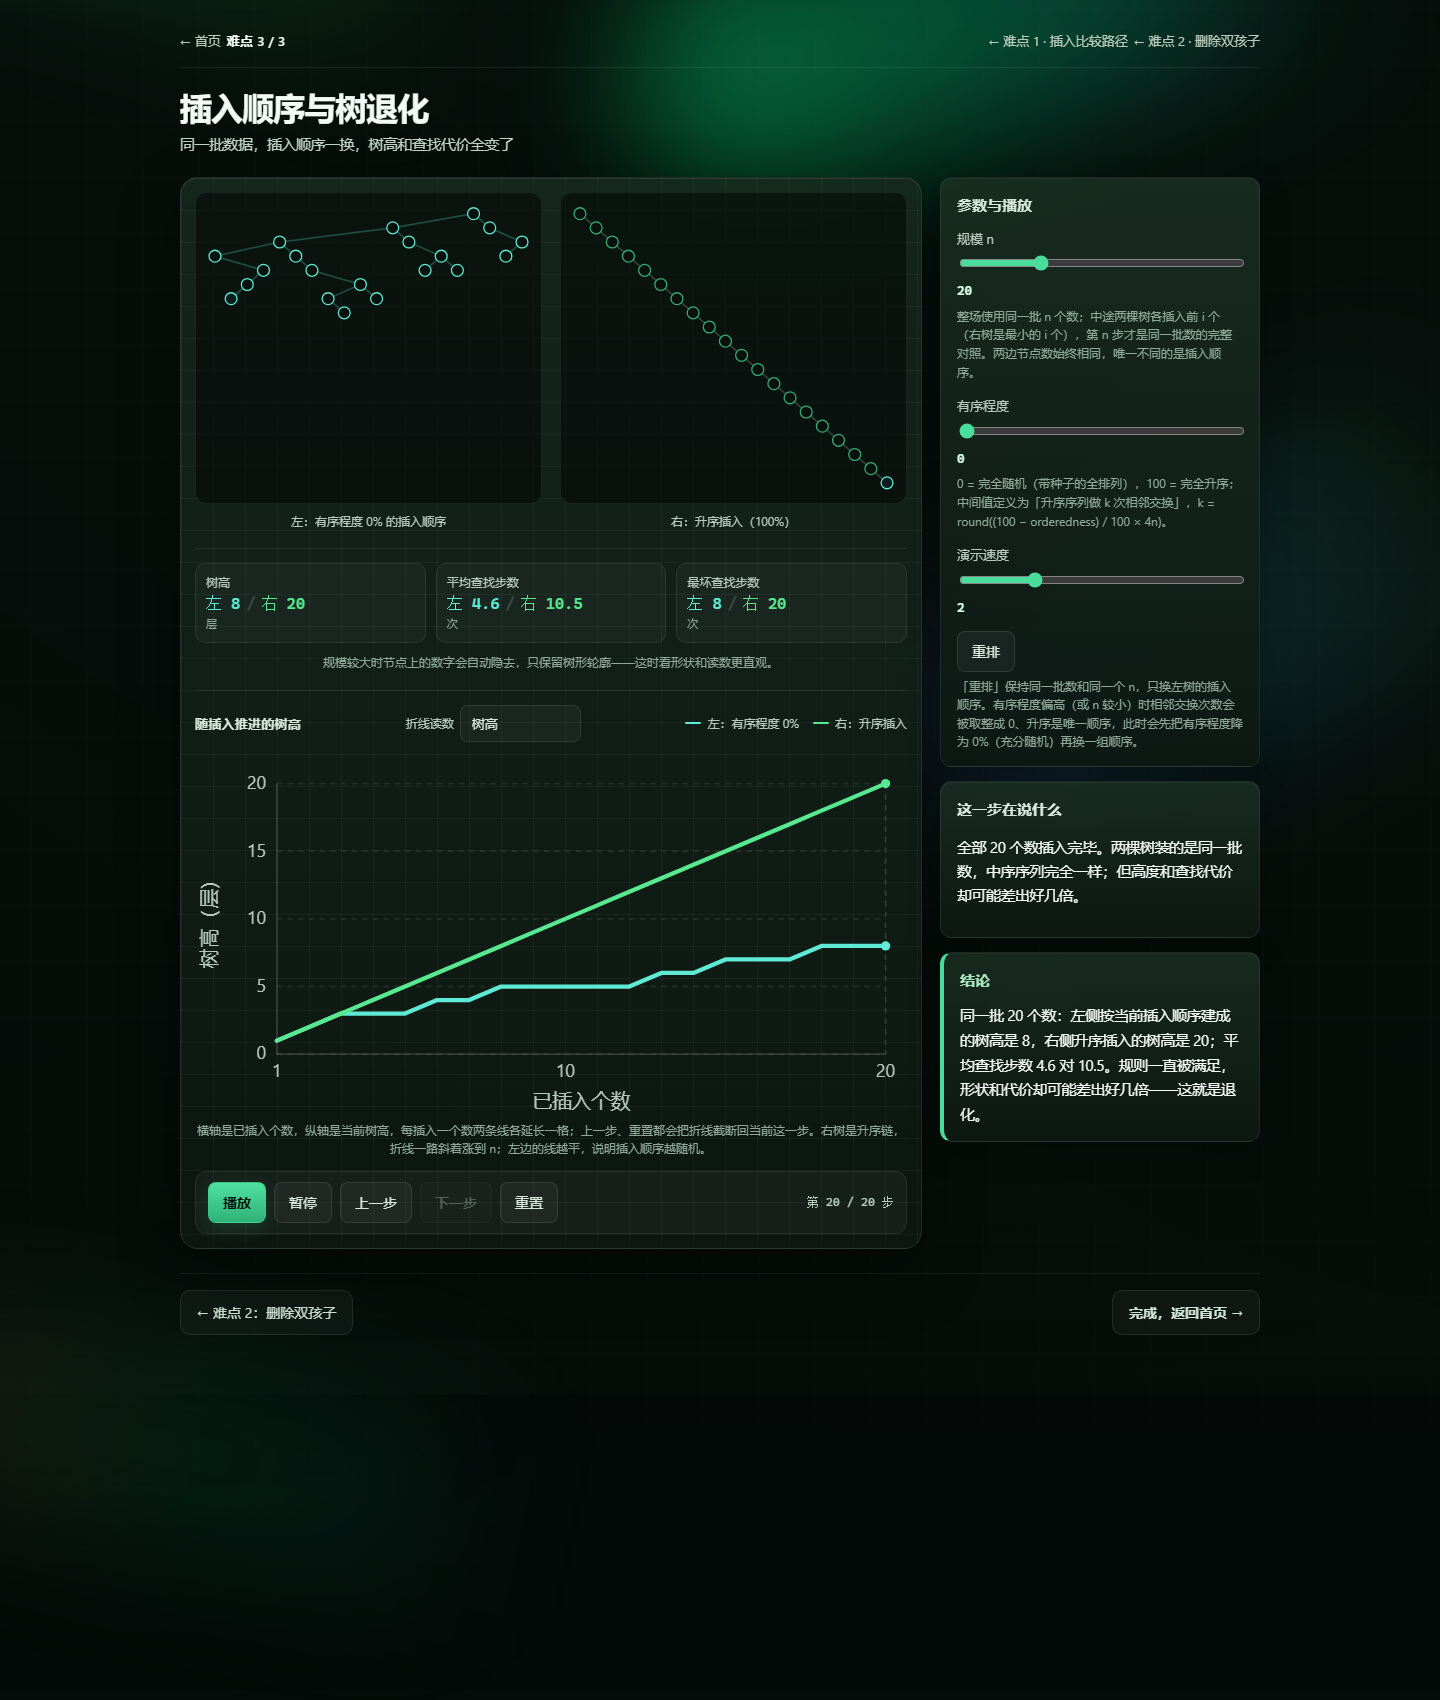
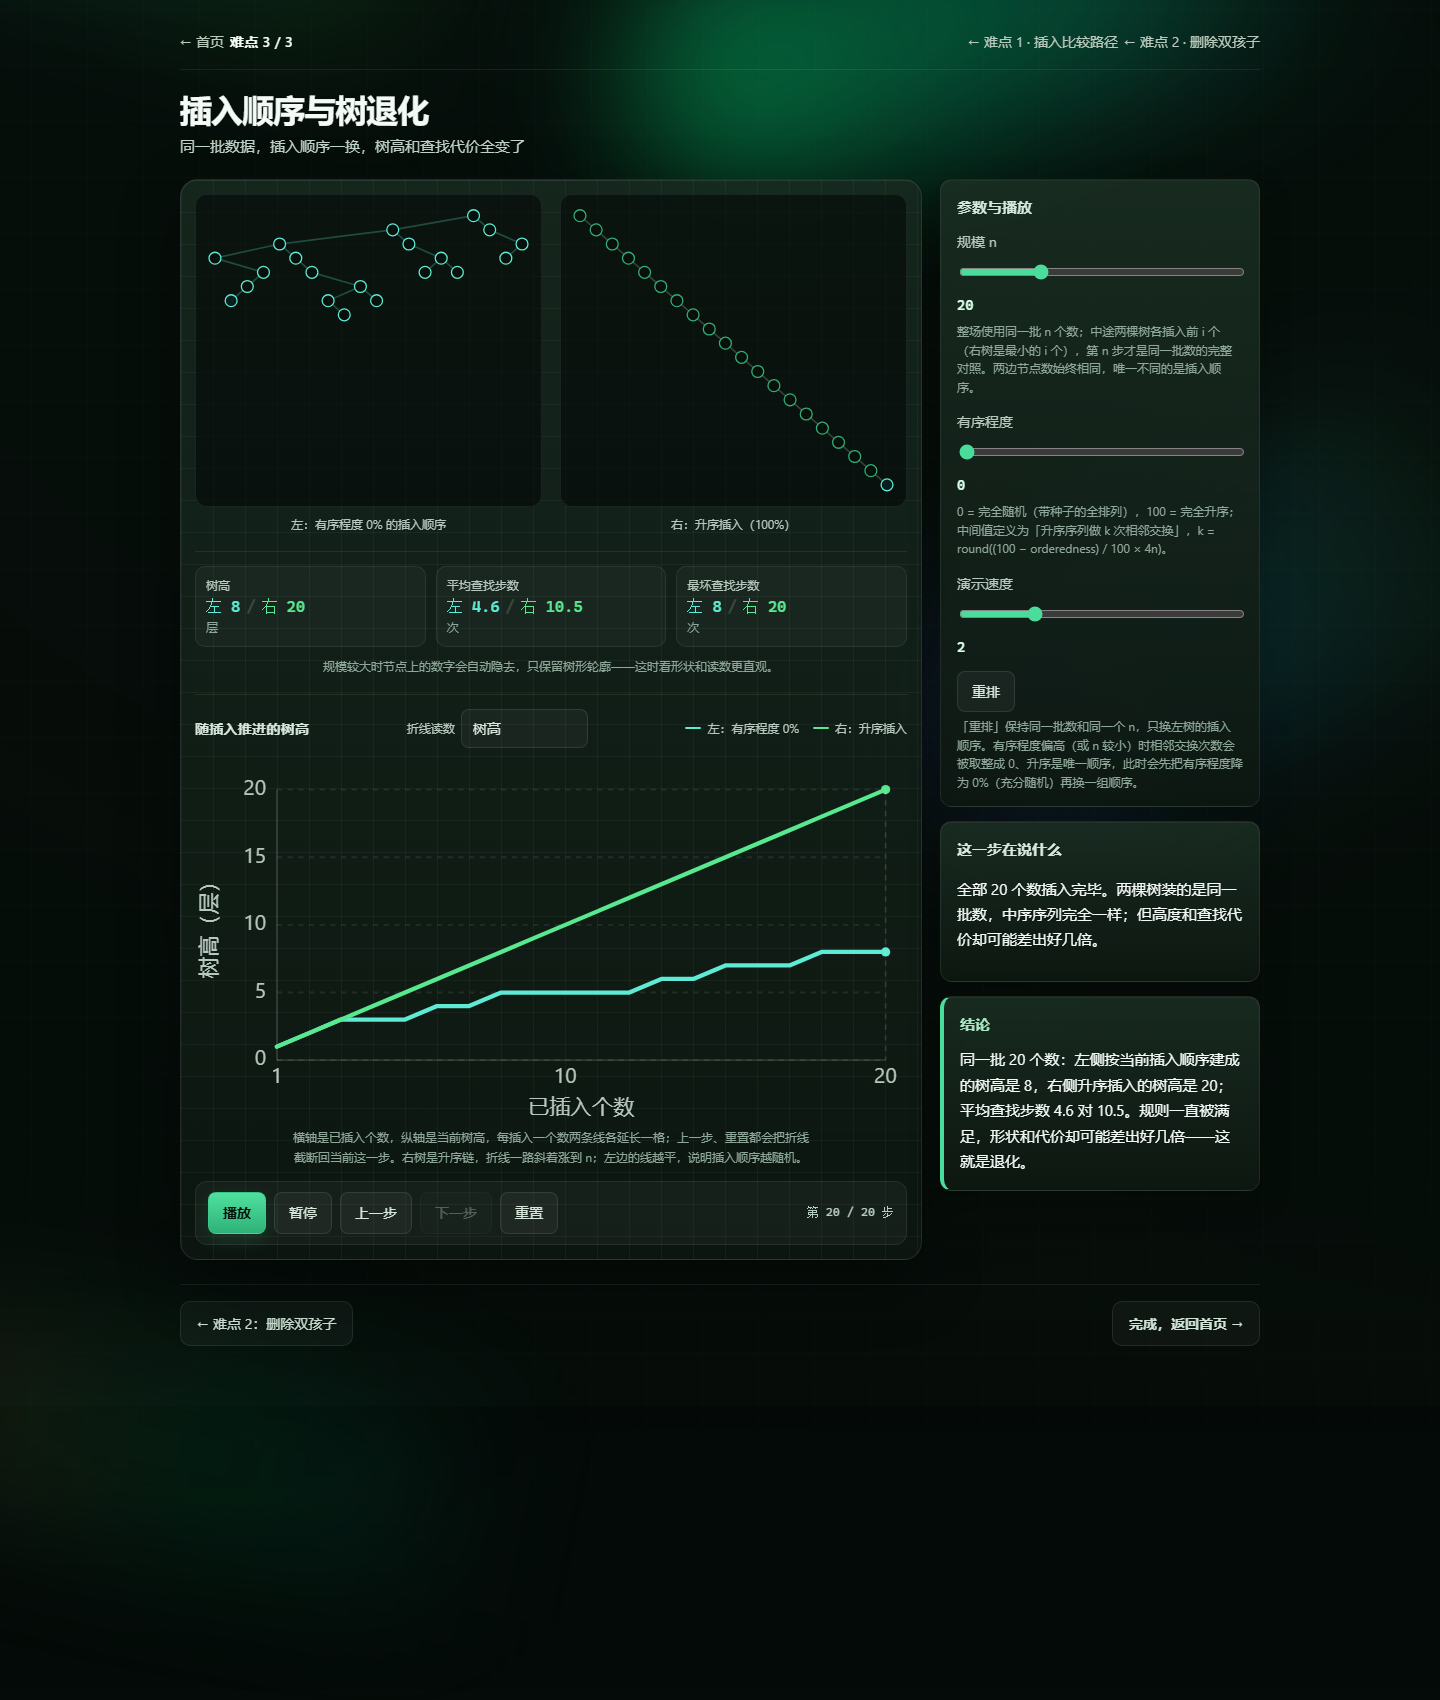
fix(matrix): 收敛字号层级、修复点击区域并加入页面转场

diff --git a/matrix/matrix.css b/matrix/matrix.css
@@ -642,3 +642,107 @@ body.matrix ::-webkit-scrollbar-thumb:hover { background: #2f5a42; }
 
 
 
+
+/* ============================================================
+   设计检查修复：字号收敛 / 点击区域 / 转场动画
+   ============================================================ */
+
+/* 统一字号层级：12 / 14 / 15 / 16 / 32 */
+body.matrix { font-size: 15px; }
+body.matrix .topbar,
+body.matrix .topbar a,
+body.matrix .crumb { font-size: 14px; }
+body.matrix .subtitle { font-size: 15px; }
+body.matrix .param label { font-size: 14px; }
+body.matrix button { font-size: 14px; }
+body.matrix .step-list li,
+body.matrix .steps li,
+body.matrix #panel-steps li { font-size: 14px; }
+body.matrix .card h2 { font-size: 15px; }
+body.matrix .cards + .card h2 { font-size: 16px; }
+body.matrix .metric-label,
+body.matrix .caption,
+body.matrix #chart-note,
+body.matrix .metric-unit { font-size: 12px; }
+body.matrix .chart-title { font-size: 14px; }
+body.matrix #chart text { font-size: 12px; }
+body.matrix .metric-value,
+body.matrix .mv { font-size: 16px; }
+
+/* 折线说明限制每行字符数（≤45） */
+body.matrix #chart-note {
+  max-width: 520px;
+  margin-left: auto;
+  margin-right: auto;
+  line-height: 1.7;
+}
+
+/* 滑块的点击 / 触摸高度不小于 24px */
+body.matrix input[type="range"] {
+  height: 26px;
+  min-height: 26px;
+  cursor: pointer;
+}
+
+/* —— 页面转场 —— */
+@view-transition { navigation: auto; }
+
+@keyframes vt-out {
+  to { opacity: 0; transform: translateY(-6px) scale(0.996); }
+}
+@keyframes vt-in {
+  from { opacity: 0; transform: translateY(10px) scale(1.004); }
+}
+::view-transition-old(root) {
+  animation: vt-out 200ms cubic-bezier(0.4, 0, 1, 1) both;
+}
+::view-transition-new(root) {
+  animation: vt-in 320ms cubic-bezier(0.2, 0.7, 0.2, 1) both;
+}
+
+@keyframes page-enter {
+  from { opacity: 0; transform: translateY(10px); }
+  to { opacity: 1; transform: translateY(0); }
+}
+body.matrix .wrap {
+  animation: page-enter 480ms cubic-bezier(0.2, 0.7, 0.2, 1) both;
+}
+
+@keyframes card-rise {
+  from { opacity: 0; transform: translateY(14px); }
+  to { opacity: 1; transform: translateY(0); }
+}
+body.matrix .cards > *,
+body.matrix .layout > * {
+  animation: card-rise 520ms cubic-bezier(0.2, 0.7, 0.2, 1) both;
+}
+body.matrix .cards > *:nth-child(2),
+body.matrix .layout > *:nth-child(2) { animation-delay: 70ms; }
+body.matrix .cards > *:nth-child(3) { animation-delay: 140ms; }
+
+@keyframes step-in {
+  from { opacity: 0; transform: translateY(6px); }
+  to { opacity: 1; transform: translateY(0); }
+}
+body.matrix .is-updating { animation: step-in 300ms ease both; }
+
+@media (prefers-reduced-motion: reduce) {
+  body.matrix .wrap,
+  body.matrix .cards > *,
+  body.matrix .layout > *,
+  body.matrix .is-updating { animation: none !important; }
+  ::view-transition-old(root),
+  ::view-transition-new(root) { animation: none !important; }
+}
+
+/* 消除剩余 13px / 10.5px / 11px 字号，收敛为 12 / 14 / 15 / 16 / 32 */
+body.matrix .readout,
+body.matrix .check-line,
+body.matrix .candidates-line,
+body.matrix .step-title,
+body.matrix select,
+body.matrix select option { font-size: 14px; }
+body.matrix .node-interval,
+body.matrix .node-tag { font-size: 12px; }
+
+body.matrix .param .readout { font-size: 14px; }

diff --git a/matrix/transition.js b/matrix/transition.js
@@ -1,0 +1,22 @@
+/* matrix/transition.js —— 步骤文字 / 状态变化的轻量转场（不改变任何业务逻辑） */
+(function () {
+  var targets = document.querySelectorAll("#panel-step, #panel-conclusion, #status");
+  for (var i = 0; i < targets.length; i++) {
+    (function (el) {
+      var scheduled = false;
+      var observer = new MutationObserver(function () {
+        if (scheduled) {
+          return;
+        }
+        scheduled = true;
+        requestAnimationFrame(function () {
+          scheduled = false;
+          el.classList.remove("is-updating");
+          void el.offsetWidth;
+          el.classList.add("is-updating");
+        });
+      });
+      observer.observe(el, { childList: true, subtree: true, characterData: true });
+    })(targets[i]);
+  }
+})();

diff --git a/matrix/d2.html b/matrix/d2.html
@@ -210,7 +210,9 @@
       window.D2.mount();
     });
   </script>
+  <script src="transition.js"></script>
 </body>
 </html>
+
 
 

diff --git a/matrix/d3.html b/matrix/d3.html
@@ -353,8 +353,10 @@
       D3.mount();
     });
   </script>
+  <script src="transition.js"></script>
 </body>
 </html>
+
 
 
 

diff --git a/matrix/d1.html b/matrix/d1.html
@@ -81,7 +81,9 @@
       D1.mount();
     });
   </script>
+  <script src="transition.js"></script>
 </body>
 </html>
+
 
 

diff --git a/matrix/index.html b/matrix/index.html
@@ -72,7 +72,9 @@
       });
     })();
   </script>
+  <script src="transition.js"></script>
 </body>
 </html>
+
 
 

diff --git a/matrix/README.md b/matrix/README.md
@@ -1,4 +1,4 @@
-# matrix/ —— 暗色极光主题（对照皮肤）
+# matrix/ —— 暗色极光主题（对照皮肤）
 
 这是课程项目的**另一套视觉设计**，用于演示「同一份交互、不同视觉语言」的对照版本。
 正式版本仍在仓库根目录的 `src/`，本目录不会替换、也不会被正式页面引用。
@@ -27,7 +27,8 @@ node tools/serve.js 8000
   按钮、下拉框、区间条、步骤列表统一为 8–12px 圆角和克制的 hover 过渡；顶栏/页脚链接的点击区域不小于 24px。
 - 三个难点的语义颜色沿用正式版：路径/后继 = 亮绿，新节点 = 青色，错误/断链 = 珊瑚红，
   候选项 A/B/C = 薄荷绿 / 紫 / 珊瑚红；d3 左树与左折线统一青色，右树与右折线亮绿。
-- 尊重 `prefers-reduced-motion`：开启减少动态时，极光停止动画并保持静止。
+- 尊重 `prefers-reduced-motion`：开启减少动态时，极光、入场与转场动画全部停止。
+- 转场：页面间使用 View Transitions（淡出上移 / 淡入上浮），页面内 `.wrap` 与卡片有依次入场动画，步骤文字变化时由 `transition.js` 触发一次 300ms 的淡入上浮。
 
 ## 与正式版的差别（只有视觉层）
 
@@ -43,7 +44,8 @@ node tools/serve.js 8000
 ```
 matrix/
   index.html   d1.html   d2.html   d3.html    ← 由 src/ 复制并替换资源路径
-  matrix.css                                  ← 主题覆盖层（含背景动效）
+  matrix.css                                  ← 主题覆盖层（含背景动效与转场）
+  transition.js                               ← 步骤文字变化的轻量转场（可选）
   css/style.css                               ← src/css/style.css 的副本
   js/common.js  tree.js  d1.js  d2.js  d3.js  ← src/js/* 的副本
   data/d1.json  d2.json  d3.json              ← 仓库 data/* 的副本
@@ -60,3 +62,5 @@ matrix/
 - 极光是 4 个 `filter: blur()` 的大色带，桌面端很轻；低端移动设备上模糊会略耗 GPU，
   已在 `prefers-reduced-motion` 下停用动画。
 - 深色主题下截图/打印建议用浅色正式版；正式提交与演示默认仍用 `src/`。
+
+
